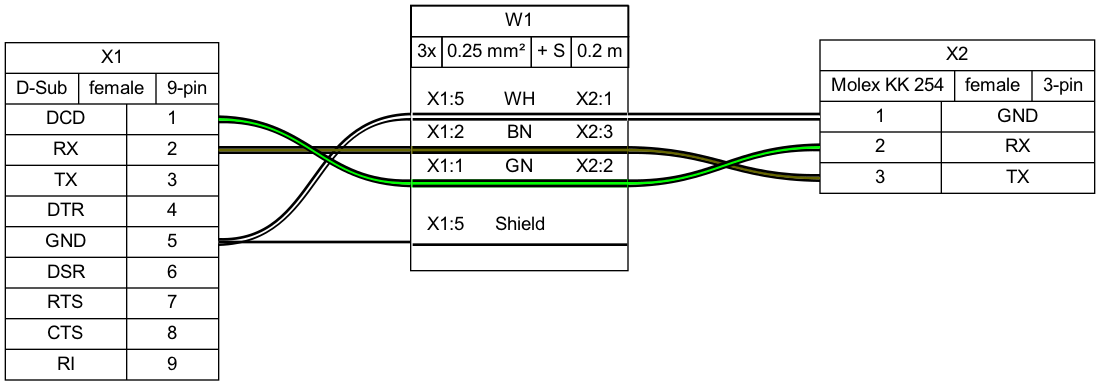
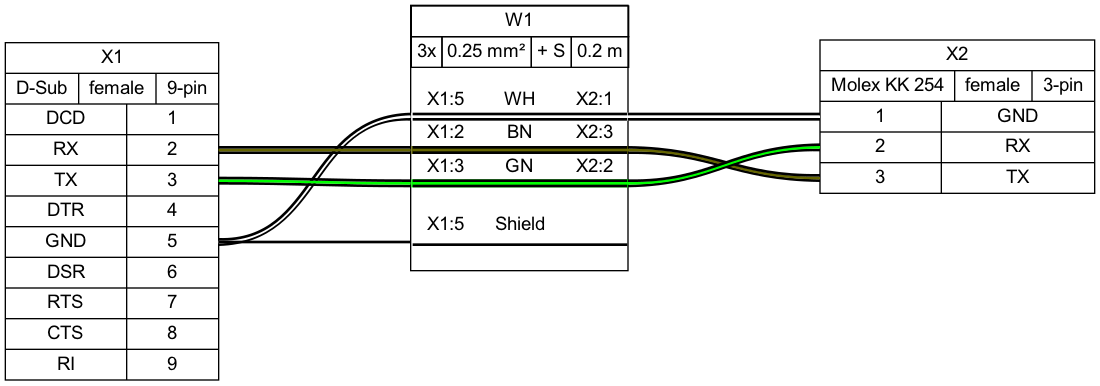
Fix demo 01

Changed region(s): [[0.1855, 0.3731, 0.3709, 0.4974], [0.1855, 0.2798, 0.2782, 0.3731], [0.4018, 0.4041, 0.4327, 0.4352]]

diff --git a/examples/demo01.html b/examples/demo01.html
@@ -83,7 +83,7 @@
 <polygon fill="#666600" stroke="transparent" stroke-width="2" points="304.5,-170 304.5,-176 467.5,-176 467.5,-170 304.5,-170"/>
 <polyline fill="none" stroke="black" stroke-width="2" points="305.5,-171 466.5,-171 "/>
 <polyline fill="none" stroke="black" stroke-width="2" points="466.5,-175 305.5,-175 "/>
-<text text-anchor="start" x="316" y="-156.8" font-family="arial" font-size="14.00">X1:1</text>
+<text text-anchor="start" x="316" y="-156.8" font-family="arial" font-size="14.00">X1:3</text>
 <text text-anchor="start" x="375" y="-156.8" font-family="arial" font-size="14.00">GN</text>
 <text text-anchor="start" x="428" y="-156.8" font-family="arial" font-size="14.00">X2:2</text>
 <polygon fill="#00ff00" stroke="transparent" stroke-width="2" points="304.5,-145 304.5,-151 467.5,-151 467.5,-145 304.5,-145"/>
@@ -112,9 +112,9 @@
 <!-- X1&#45;&#45;W1 -->
 <g id="edge5" class="edge">
 <title>X1:e&#45;&#45;W1:w</title>
-<path fill="none" stroke="#000000" stroke-width="2" d="M160,-194C225.5,-195.63 234.57,-147.63 304,-146"/>
-<path fill="none" stroke="#00ff00" stroke-width="2" d="M160,-196C227.46,-196 236.54,-148 304,-148"/>
-<path fill="none" stroke="#000000" stroke-width="2" d="M160,-198C229.43,-196.37 238.5,-148.37 304,-150"/>
+<path fill="none" stroke="#000000" stroke-width="2" d="M160,-148C223.76,-148.02 239.75,-146.02 304,-146"/>
+<path fill="none" stroke="#00ff00" stroke-width="2" d="M160,-150C224.01,-150 239.99,-148 304,-148"/>
+<path fill="none" stroke="#000000" stroke-width="2" d="M160,-152C224.25,-151.98 240.24,-149.98 304,-150"/>
 </g>
 <!-- X1&#45;&#45;W1 -->
 <g id="edge7" class="edge">

diff --git a/README.md b/README.md
@@ -63,7 +63,7 @@ cables:
 
 connections:
   -
-    - X1: [5,2,1]
+    - X1: [5,2,3]
     - W1: [1,2,3]
     - X2: [1,3,2]
   -
